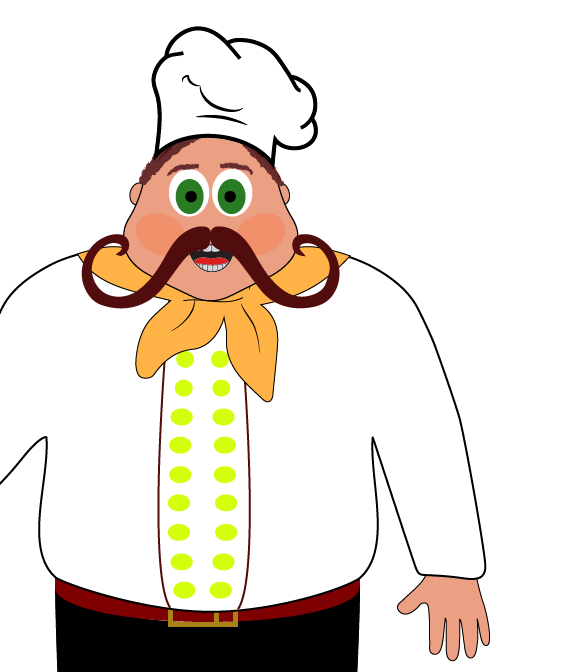
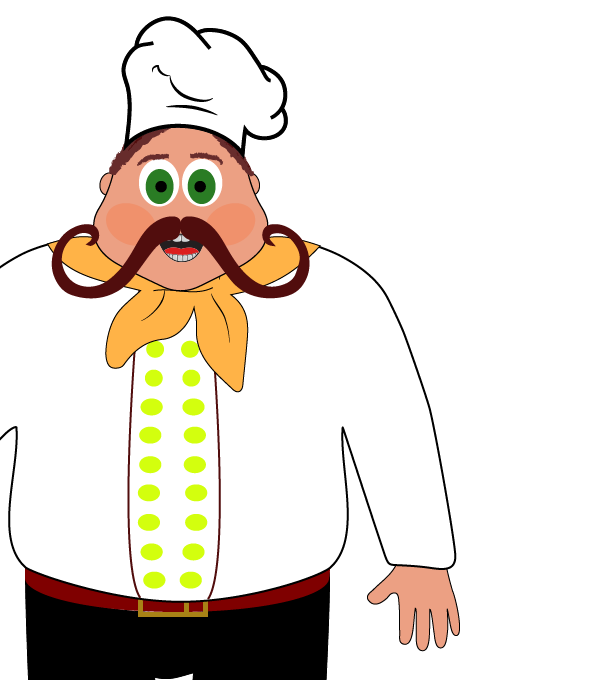
- Update some images - Fixed the position of teacher parts in intro - Changed the confirm dialog to follow the pattern in the game

diff --git a/web/js/nobugs/snackman.js b/web/js/nobugs/snackman.js
@@ -457,29 +457,29 @@ SnackMan.prototype.draw = function(ctx) {
 SnackMan.prototype.drawMenu = function(ctx) {
 	ctx.drawImage(this.menu, 120, 7);
 	
-	var y = 30;
+	var y = 26;
 	if (this.priceHotDog) {
-		ctx.drawImage(PreloadImgs.get("$hotdog"), 130, y-4, 18, 18);
-		ctx.drawImage(this.priceHotDog, 160, y);
-		y+=20;
+		ctx.drawImage(PreloadImgs.get("$hotdog"), 130, y, 14, 14);
+		ctx.drawImage(this.priceHotDog, 165, y, 14, 14);
+		y+=16;
 	}
 	
 	if (this.priceCoke) {
-		ctx.drawImage(PreloadImgs.get("$coke"), 130, y-5, 18, 18);
-		ctx.drawImage(this.priceCoke, 160, y);
-		y+=20;
+		ctx.drawImage(PreloadImgs.get("$coke"), 130, y, 14, 14);
+		ctx.drawImage(this.priceCoke, 165, y, 14, 14);
+		y+=16;
 	}
 	
 	if (this.priceJuice) {
-		ctx.drawImage(PreloadImgs.get("$juiceoforange"), 130, y-5, 18, 18);
-		ctx.drawImage(this.priceJuice, 160, y);
-		y+=20;
+		ctx.drawImage(PreloadImgs.get("$juiceoforange"), 130, y, 14, 14);
+		ctx.drawImage(this.priceJuice, 165, y, 14, 14);
+		y+=16;
 	}
 	
 	if (this.priceIceCream) {
-		ctx.drawImage(PreloadImgs.get("$icecreamofchocolate"), 130, y-5, 18, 18);
-		ctx.drawImage(this.priceIceCream, 160, y);
-		y+=20;
+		ctx.drawImage(PreloadImgs.get("$icecreamofchocolate"), 130, y, 14, 14);
+		ctx.drawImage(this.priceIceCream, 165, y, 14, 14);
+		y+=16;
 	}
 };
 

diff --git a/web/css/third/jquery.simplemodal.confirm.css b/web/css/third/jquery.simplemodal.confirm.css
@@ -14,8 +14,8 @@
 #confirm-overlay {background-color:#eee;}
 
 /* Container */
-#confirm-container {height:140px; width:420px; font: 16px/22px 'Trebuchet MS', Verdana, Arial; text-align:left; background:#fff; border:2px solid #336699;}
-#confirm-container .header {height:30px; line-height:30px; width:100%; color:#000; font-weight:bold; background-color: #ddd}
+#confirm-container {height:140px; width:420px; font: 16px/22px 'Montserrat', sans-serif; text-align:left; background:#fff; border:1px solid #ed6d54;}
+#confirm-container .header {height:25px; line-height:25px; width:100%; color:#000; font-weight:bold; background-color: #ffd89d}
 #confirm-container .header span {padding-left:8px;}
 #confirm-container .message {color:#333; font-size:14px; margin:0; padding:12px 4px 12px 8px;}
 #confirm-container .buttons {line-height:26px; width:160px; float:right; padding:10px 8px 0;} 

diff --git a/web/js/nobugs/intro.js b/web/js/nobugs/intro.js
@@ -166,7 +166,7 @@ IntroGame.closeAvatarEditor = function() {
 	IntroGame.createDiv("closeAvatarEditor4").css("top", "405px").css("width", "100%");
 	
 	var img = $("<img>").attr("id", "imgTeacher-hand").attr("src", "images/teacher_attention_hand-hand.png").css("width", "105px%")
-						.css("position", "absolute").css("z-index", "2001").css("left", (b.x+130)+"px").css("top", "347px").css("height", "135px");
+						.css("position", "absolute").css("z-index", "2001").css("left", (b.x+130)+"px").css("top", "347px").css("height", "159px");
 	
 	img.prependTo("body");
 	img = $("<img>").attr("id", "imgTeacher-body").attr("src", "images/teacher_attention_hand-body.png").css("width", "296px")

diff --git a/web/js/third/jquery.simplemodal.confirm.js b/web/js/third/jquery.simplemodal.confirm.js
@@ -23,7 +23,7 @@ jQuery(function ($) {
 function confirm(message, callbackYes, callbackNo, options) {
 	
 	$('#confirm').modal({
-		closeHTML: "<button style='padding:0px;margin:0px;min-width:0px;background-color:transparent;position:absolute; right:10px; top:2px;'><img src='images/closedialog.png' style='width:16px;height:16px'/></button>",
+    	closeHTML: "<button style='border:none;position:absolute;right:0px;padding:0px;margin:0px;margin-right:5px;min-width:0px;background-color:transparent;'><img src='images/closedialog.png' style='width:16px;height:16px'/></button>",
 		position: ["20%",],
 		overlayId: 'confirm-overlay',
 		containerId: 'confirm-container', 

diff --git a/web/js/nobugs/game.js b/web/js/nobugs/game.js
@@ -579,7 +579,7 @@ Game.reloadInitialBlocksClick = function() {
 	confirm(BlocklyApps.getMsg("confirm_reloadblocks"), 
 			function () { fReloadBlocks(); },
 			function () { Hints.startHints(); },
-			{"height": "180px"}
+			{"height": "160px"}
 	);
 	
 	
@@ -2065,7 +2065,7 @@ Game.wizardFreeButtonClick = function() {
 				"Ao confirmar ser&#227;o consumidas todas as estrelas.", 
 				function () { fShowTips(1); },
 				function () { Hints.startHints(); },
-				{"height": "180px"}
+				{"height": "160px"}
 		);
 	} else
 		fShowTips(0);

diff --git a/utils/nobugssnackbar/UpdateMission.java b/utils/nobugssnackbar/UpdateMission.java
@@ -17,7 +17,7 @@ public class UpdateMission {
 		MissionJdbcDao mDao = new MissionJdbcDao();
 
 		int j = 0;
-		for (int i = 59; i <= 73; i++) {
+		for (int i = 59; i <= 74; i++) {
 			StringBuffer xml = new StringBuffer();
 			BufferedReader arq = null;
 			try {
